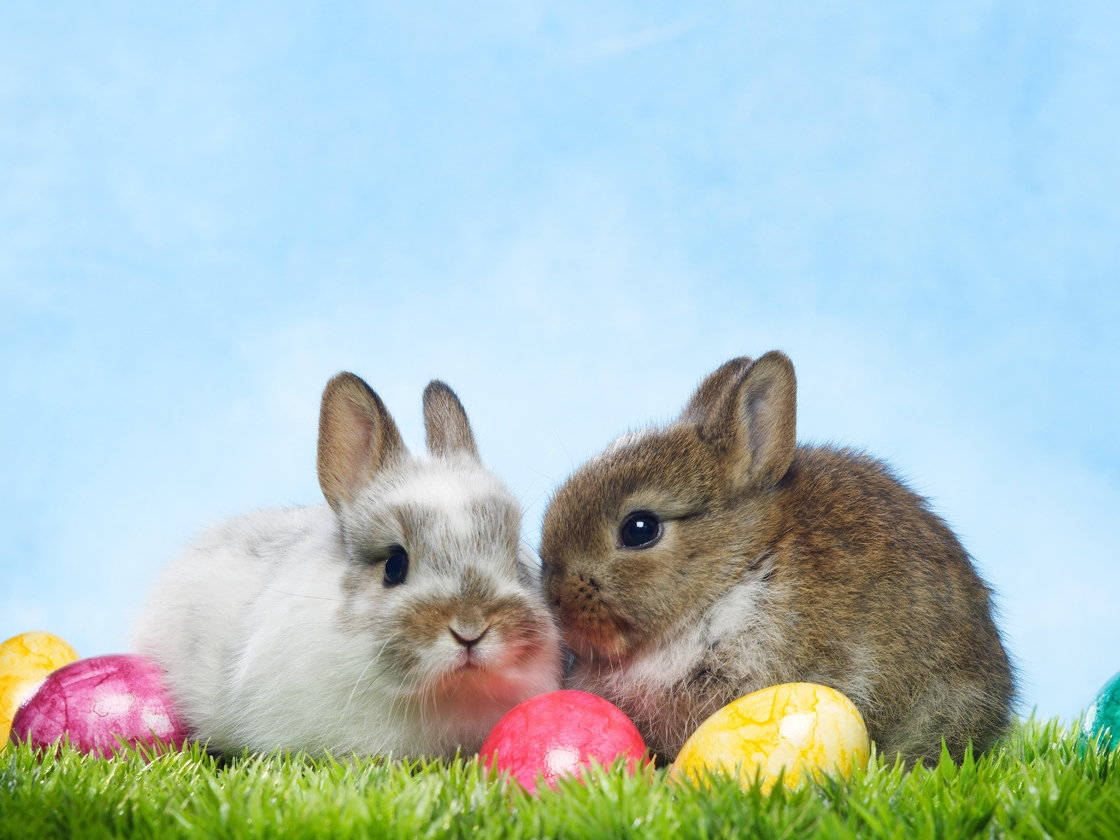
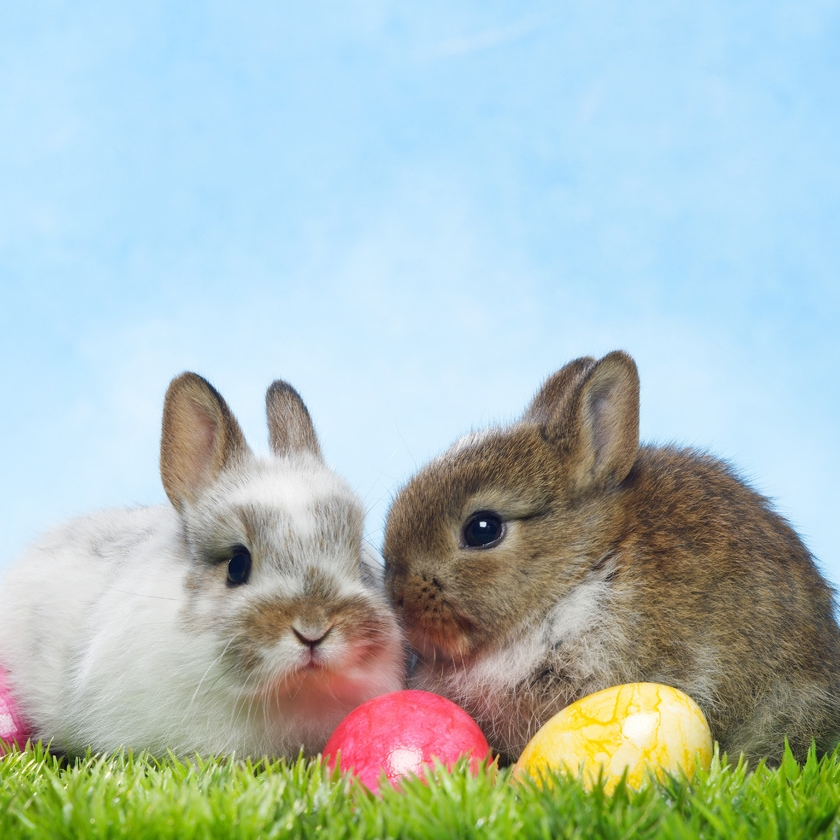
Number of flippable cards reduced to one, pictures modified

diff --git a/src/data.js b/src/data.js
@@ -1,226 +1,225 @@
 export const poems = [
     {
         id: 1,
-        poem: `Patak mellett mentem, azt súgta egy harcsa,
-        Van e háznál kislány, hogy az Isten tartsa.
-        Meglocsolnám rózsavízzel, hogyha előjönne,
+        poem: `Patak mellett mentem, azt súgta egy harcsa,<br />
+        Van e háznál kislány, hogy az Isten tartsa.<br />
+        Meglocsolnám rózsavízzel, hogyha előjönne,<br />
         Akkor az a kicsi lány jaj de nagyot nőne!`,
     },
     {
         id: 2,
-        poem: `Pajtában egy szürke ló,
-        Én vagyok a locsoló.
-        Íme itt a kölni,
+        poem: `Pajtában egy szürke ló,<br />
+        Én vagyok a locsoló.<br />
+        Íme itt a kölni,<br />
         Szabad-e locsolni?`,
     },
     {
        id: 3,
-       poem: `Zöld erdőben jártam
-       Kék ibolyát láttam.
-       El akart hervadni
+       poem: `Zöld erdőben jártam,<br />
+       Kék ibolyát láttam.<br />
+       El akart hervadni,<br />
        Szabad-e locsolni?`, 
     },
     {
         id: 4,
-        poem: `Ákom-bákom, berkenye,
-        Szagos húsvét reggele.
-        Leöntjük a virágot,
+        poem: `Ákom-bákom, berkenye,<br />
+        Szagos húsvét reggele.<br />
+        Leöntjük a virágot,<br />
         Visszük már a kalácsot.`,
     },
     {
         id: 5,
-        poem: `Én kis kertész legény vagyok,
-        Rózsavízzel locsolkodok.
-        Úgy locsolom a lányokat,
+        poem: `Én kis kertész legény vagyok,<br />
+        Rózsavízzel locsolkodok.<br />
+        Úgy locsolom a lányokat,<br />
         Mint kertész a virágokat.`,
     },
     {
         id: 6,
-        poem: `Mosolyog a napsugár,
-        mosolyog az ég is.
-        Locsolkodok, tojást kapok,
+        poem: `Mosolyog a napsugár,<br />
+        mosolyog az ég is.<br />
+        Locsolkodok, tojást kapok,<br />
         s mosolygok majd én is.`,
     },
     {
         id: 7,
-        poem: `E háznak van rózsabokra,
-        megöntözném, hogy virulna.
-        A kis kertész fáradsága,
+        poem: `E háznak van rózsabokra,<br />
+        megöntözném, hogy virulna.<br />
+        A kis kertész fáradsága,<br />
         egy pár tojás a váltsága.`,
     },
     {
         id: 8,
-        poem: `Zöld erdőben jártam,
-        Unicumot láttam.
-        Ha nem kapok belőle,
+        poem: `Zöld erdőben jártam,<br />
+        Unicumot láttam.<br />
+        Ha nem kapok belőle,<br />
         Nem locsolok jövőre.`,
     },
     {
         id: 9,
-        poem: `Én verset nem tudok,
-        azt mondjanak a kicsik,
-        én csak azért jöttem,
+        poem: `Én verset nem tudok,<br />
+        azt mondjanak a kicsik,<br />
+        én csak azért jöttem,<br />
         hogy igyak egy kicsit.`,
     },
     {
         id: 10,
-        poem: `Botom földig lekonyul,
-        Nem vagyok már mai nyúl.
-        Káposztám javát megettem,
+        poem: `Botom földig lekonyul,<br />
+        Nem vagyok már mai nyúl.<br />
+        Káposztám javát megettem,<br />
         Locsoljon más helyettem!`,
     },
     {
         id: 11,
-        poem: `Zöld erdőben jártam,
-        Lejártam a lábam,
-        Már mindenem dagad,
+        poem: `Zöld erdőben jártam,<br />
+        Lejártam a lábam,<br />
+        Már mindenem dagad,<br />
         Locsold meg most magad!`,
     },
     {
         id: 12,
-        poem: `Ifjú cybergyerek vagyok,
-        interneten locsolkodok.
-        Megadom a számlaszámom,
+        poem: `Ifjú cybergyerek vagyok,<br />
+        interneten locsolkodok.<br />
+        Megadom a számlaszámom,<br />
         utald a pénzt, kis virágom!`,
     },
     {
         id: 13,
-        poem: `Kinyílt az ibolya húsvét hajnalára,
-        Csepegtél, rózsavíz, erre a kislányra.
-        Rózsavíztől, majd meglátod, szép és ügyes leszel,
+        poem: `Kinyílt az ibolya húsvét hajnalára,<br />
+        Csepegtél, rózsavíz, erre a kislányra.<br />
+        Rózsavíztől, majd meglátod, szép és ügyes leszel,<br />
         Ugye, kislány, a zsebembe piros tojást teszel?`,
     },
     {
         id: 14,
-        poem: `E szép ajtón bekopogék,
-        Ha nem bánják, locsolkodnék.
-        Öntök asszonyt lányával,
-        Várok tojást párjával.
-        Ha pedig sajnáljátok,
-        Mindjárt porrá áztok,
-        Mert kölni helyett
+        poem: `E szép ajtón bekopogék,<br />
+        Ha nem bánják, locsolkodnék.<br />
+        Öntök asszonyt lányával,<br />
+        Várok tojást párjával.<br />
+        Ha pedig sajnáljátok,<br />
+        Mindjárt porrá áztok,<br />
+        Mert kölni helyett<br />
         Vizet öntök rátok!`,
     },
     {
         id: 15,
-        poem: `Gyertek elő szép leányok,
-        ibolya virágok!
-        Virágeső hullatozzon rátok.
-        Szemetek mosolyogjon,
-        orcátok viruljon,
-        piros tojás, hímes tojás
+        poem: `Gyertek elő szép leányok,<br />
+        ibolya virágok!<br />
+        Virágeső hullatozzon rátok.<br />
+        Szemetek mosolyogjon,<br />
+        orcátok viruljon,<br />
+        piros tojás, hímes tojás<br />
         a zsebembe hulljon!`,
     },
     {
         id: 16,
-        poem: `Itt a Húsvét, eljött végre,
-        a szép lányok örömére,
-        mert a lányok szép virágok,
-        Illatos víz illik rájok.
-        Kit húsvétkor nem locsolnak,
-        hervadt virág lesz már holnap.
-        Ne fuss el hát szép virágom,
+        poem: `Itt a Húsvét, eljött végre,<br />
+        a szép lányok örömére,<br />
+        mert a lányok szép virágok,<br />
+        Illatos víz illik rájok.<br />
+        Kit húsvétkor nem locsolnak,<br />
+        hervadt virág lesz már holnap.<br />
+        Ne fuss el hát szép virágom,<br />
         a locsolásért tojást várok!`,
     },
     {
         id: 17,
-        poem: `Tavaly húsvétkor
-        még nem volt kicsi székem,
-        Édesanyám tüzelte el,
-        az idei télen.
-        Egy év alatt nagyot nőttem,
-        kis székre sem állok,
-        innen lentről locsolgatok,
+        poem: `Tavaly húsvétkor<br />
+        még nem volt kicsi székem,<br />
+        Édesanyám tüzelte el,<br />
+        az idei télen.<br />
+        Egy év alatt nagyot nőttem,<br />
+        kis székre sem állok,<br />
+        innen lentről locsolgatok,<br />
         s csupa jót kívánok!`,
     },
     {
         id: 18,
-        poem: `Húsvét másodnapján az jutott eszembe,
-        Kölnisüvegemet veszem a kezembe,
-        Elindultam vele piros tojást szedni,
+        poem: `Húsvét másodnapján az jutott eszembe,<br />
+        Kölnisüvegemet veszem a kezembe,<br />
+        Elindultam vele piros tojást szedni,<br />
         Hogyha adtok, lányok, meg foglak öntözni.`,
     },
     {
         id: 19,
-        poem: `Én vagyok a török,
-        Locsolkodni jövök,
-        Ha nem kapok piros tojást,
+        poem: `Én vagyok a török,<br />
+        Locsolkodni jövök,<br />
+        Ha nem kapok piros tojást,<br />
         Mindent összetörök.`,
     },
     {
         id: 20,
-        poem: `Mi vagyunk a nyuszikák,
-        Rajtunk gyönyör uszik át,
-        Ma fog a húsvét lefolyni,
-        Ma fogunk, ma fogunk
+        poem: `Mi vagyunk a nyuszikák,<br />
+        Rajtunk gyönyör uszik át,<br />
+        Ma fog a húsvét lefolyni,<br />
+        Ma fogunk, ma fogunk<br />
         Piros tojásokat tojni.`,
     },
     {
         id: 21,
-        poem: `Napsütötte szép tájakon,
-        Jöttem végig az utakon.
-        Fölém hajolt sok kis virág,
-        Rózsavizük osztogatták.
-        Megöntözlek most itt véle,
+        poem: `Napsütötte szép tájakon,<br />
+        Jöttem végig az utakon.<br />
+        Fölém hajolt sok kis virág,<br />
+        Rózsavizük osztogatták.<br />
+        Megöntözlek most itt véle,<br />
         Piros tojást kérek érte.`,
     },
     {
         id: 22,
-        poem: `Tündérország gyöngyharmatja szálljon a fejedre,
-        Aki téged megöntözött, jusson az eszedbe!
+        poem: `Tündérország gyöngyharmatja szálljon a fejedre,<br />
+        Aki téged megöntözött, jusson az eszedbe!<br />
         Hol a tojás, piros tojás? Ide a zsebembe!`,
     },
     {
         id: 23,
-        poem: `Kék erdőben jártam,
-        Zöld ibolyát láttam,
-        Azt hiszed, hogy színvak vagyok?
+        poem: `Kék erdőben jártam,<br />
+        Zöld ibolyát láttam,<br />
+        Azt hiszed, hogy színvak vagyok?<br />
         Húzzak el vagy locsolhatok?`,
     },
     {
         id: 24,
-        poem: `Zúg a traktor, szánt az eke,
-        De büdös a trágya leve!
-        Azért kérdem idejébe,
+        poem: `Zúg a traktor, szánt az eke,<br />
+        De büdös a trágya leve!<br />
+        Azért kérdem idejébe,<br />
         Meglocsolhatlak-e véle?`,
     },
     {
         id: 25,
-        poem: `Világűrben jártam,
-        Űrrakétát láttam.
-        Föl akart robbanni.
+        poem: `Világűrben jártam,<br />
+        Űrrakétát láttam.<br />
+        Föl akart robbanni.<br />
         Szabad-e locsolni?`,
     },
     {
         id: 26,
-        poem: `Egy tök, két tök, öt tök,
+        poem: `Egy tök, két tök, öt tök,<br />
         Nem tökölök, öntök!`,
     },
     {
         id: 27,
-        poem: `Egy gondolat bánt engemet:
+        poem: `Egy gondolat bánt engemet:<br />
         Elfeledtem a versemet.`,
     },
     {
         id: 28,
-        poem: `Tele van a hajad kosszal,
+        poem: `Tele van a hajad kosszal,<br />
         meglocsollak Domestosszal!`,
     },
     {
         id: 29,
-        poem: `Én még kicsi vagyok,
-        Verset ezért nem is tudok,
-        De majd jönnek a nagyok,
+        poem: `Én még kicsi vagyok,<br />
+        Verset ezért nem is tudok,<br />
+        De majd jönnek a nagyok,<br />
         Aztán majd mondanak azok`,
     },
     {
         id: 30,
-        poem: `Ajtó mellett állok,
-        Piros tojást várok.
-        Ha nem adják párjával,
+        poem: `Ajtó mellett állok,<br />
+        Piros tojást várok.<br />
+        Ha nem adják párjával,<br />
         Elszökök a lányával!`,
     },
-
 ];
 
 export const imgUrls = [

diff --git a/src/components/card/card.css b/src/components/card/card.css
@@ -2,7 +2,7 @@
 
 .card {
     width: 400px;
-    height: 300px;
+    height: 400px;
     position: relative;
     transform-style: preserve-3d;
     transition: transform 1000ms;
@@ -13,7 +13,7 @@
 
 .card-front, .card-back {
     width: 400px;
-    height: 300px;
+    height: 400px;
     position: absolute;
     display: flex;
     flex-wrap: wrap;
@@ -31,10 +31,13 @@
 
 img {
     border-radius: 10px;
+    height: 400px;
 }
 
 .card-back {
     transform: rotateY(180deg);
     background-image: url("/public/img/easter_eggs.jpg");
     background-size: cover;
+    color: yellow;
+    text-shadow: 2px 2px black;
 }

diff --git a/src/components/card/Card.js b/src/components/card/Card.js
@@ -24,7 +24,7 @@ const Card = ({ onClick }) => {
     return(
         <div className="card shadow-5" onClick={() => onClick()}>
             <div className="card-back f3 lh-copy pa3" key={activePoem}>
-                {poems[activePoem].poem}
+                <p dangerouslySetInnerHTML={{__html: poems[activePoem].poem}} />
             </div>
             <div className="card-front" key={activeBg} onClick={() => {randomPoems(); randomBackgrounds();}}>
                 {<img src={imgUrls[activeBg].imgUrl} alt="easter bunny"/>}

diff --git a/src/App.js b/src/App.js
@@ -7,12 +7,11 @@ function App() {
     <div className="App">
 
       <div className="header pa2 mt2 shadow-1 br3">
-        <h1 className=''>Kattints az egyik nyuszira és kapsz tőle egy locsolóverset!</h1>
+        <h1>Kattints a nyuszira és kapsz tőle egy locsolóverset!</h1>
         <p className='f5'>by Károly Szabolcs © 2023</p>
       </div>
 
-      <div className='cards'>
-        <FlippableCard />
+      <div className='cards mb3'>
         <FlippableCard />
       </div>
     </div>

diff --git a/src/App.css b/src/App.css
@@ -4,7 +4,6 @@
 
 .header {
     min-width: 300px;
-    max-width: 80vw;
     margin: 10px 10vw;
     color: blueviolet;
 }
